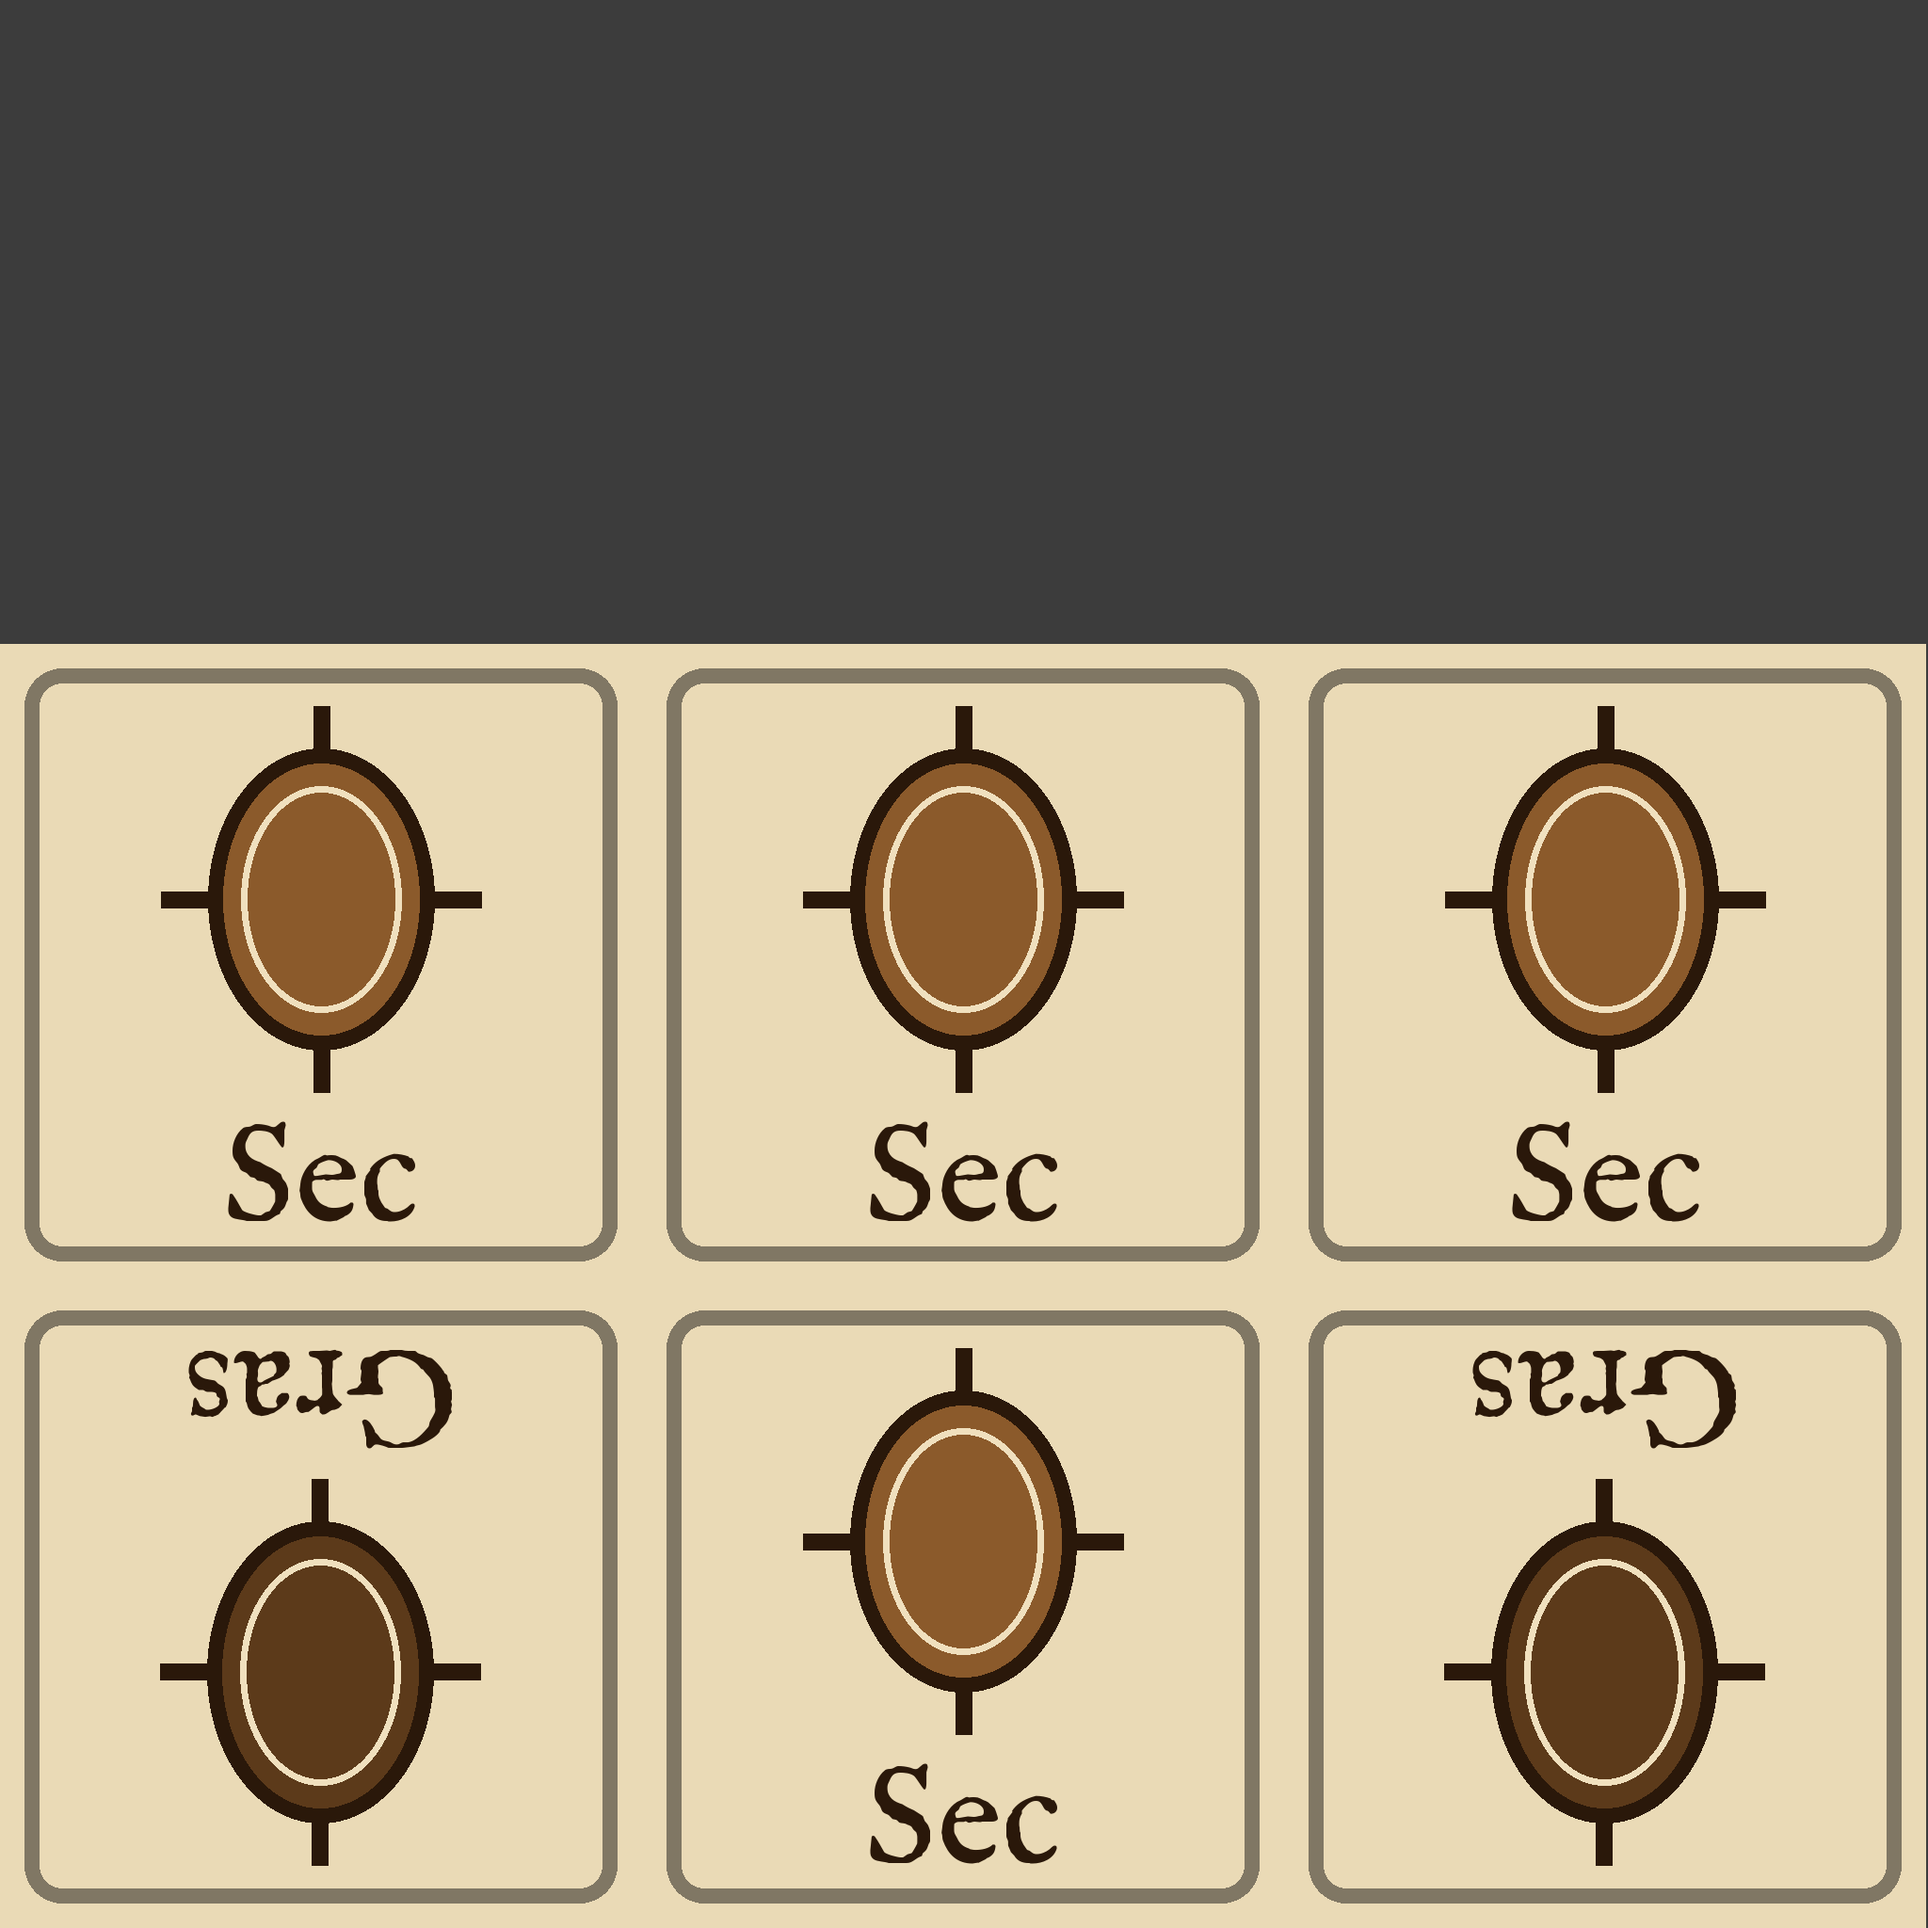
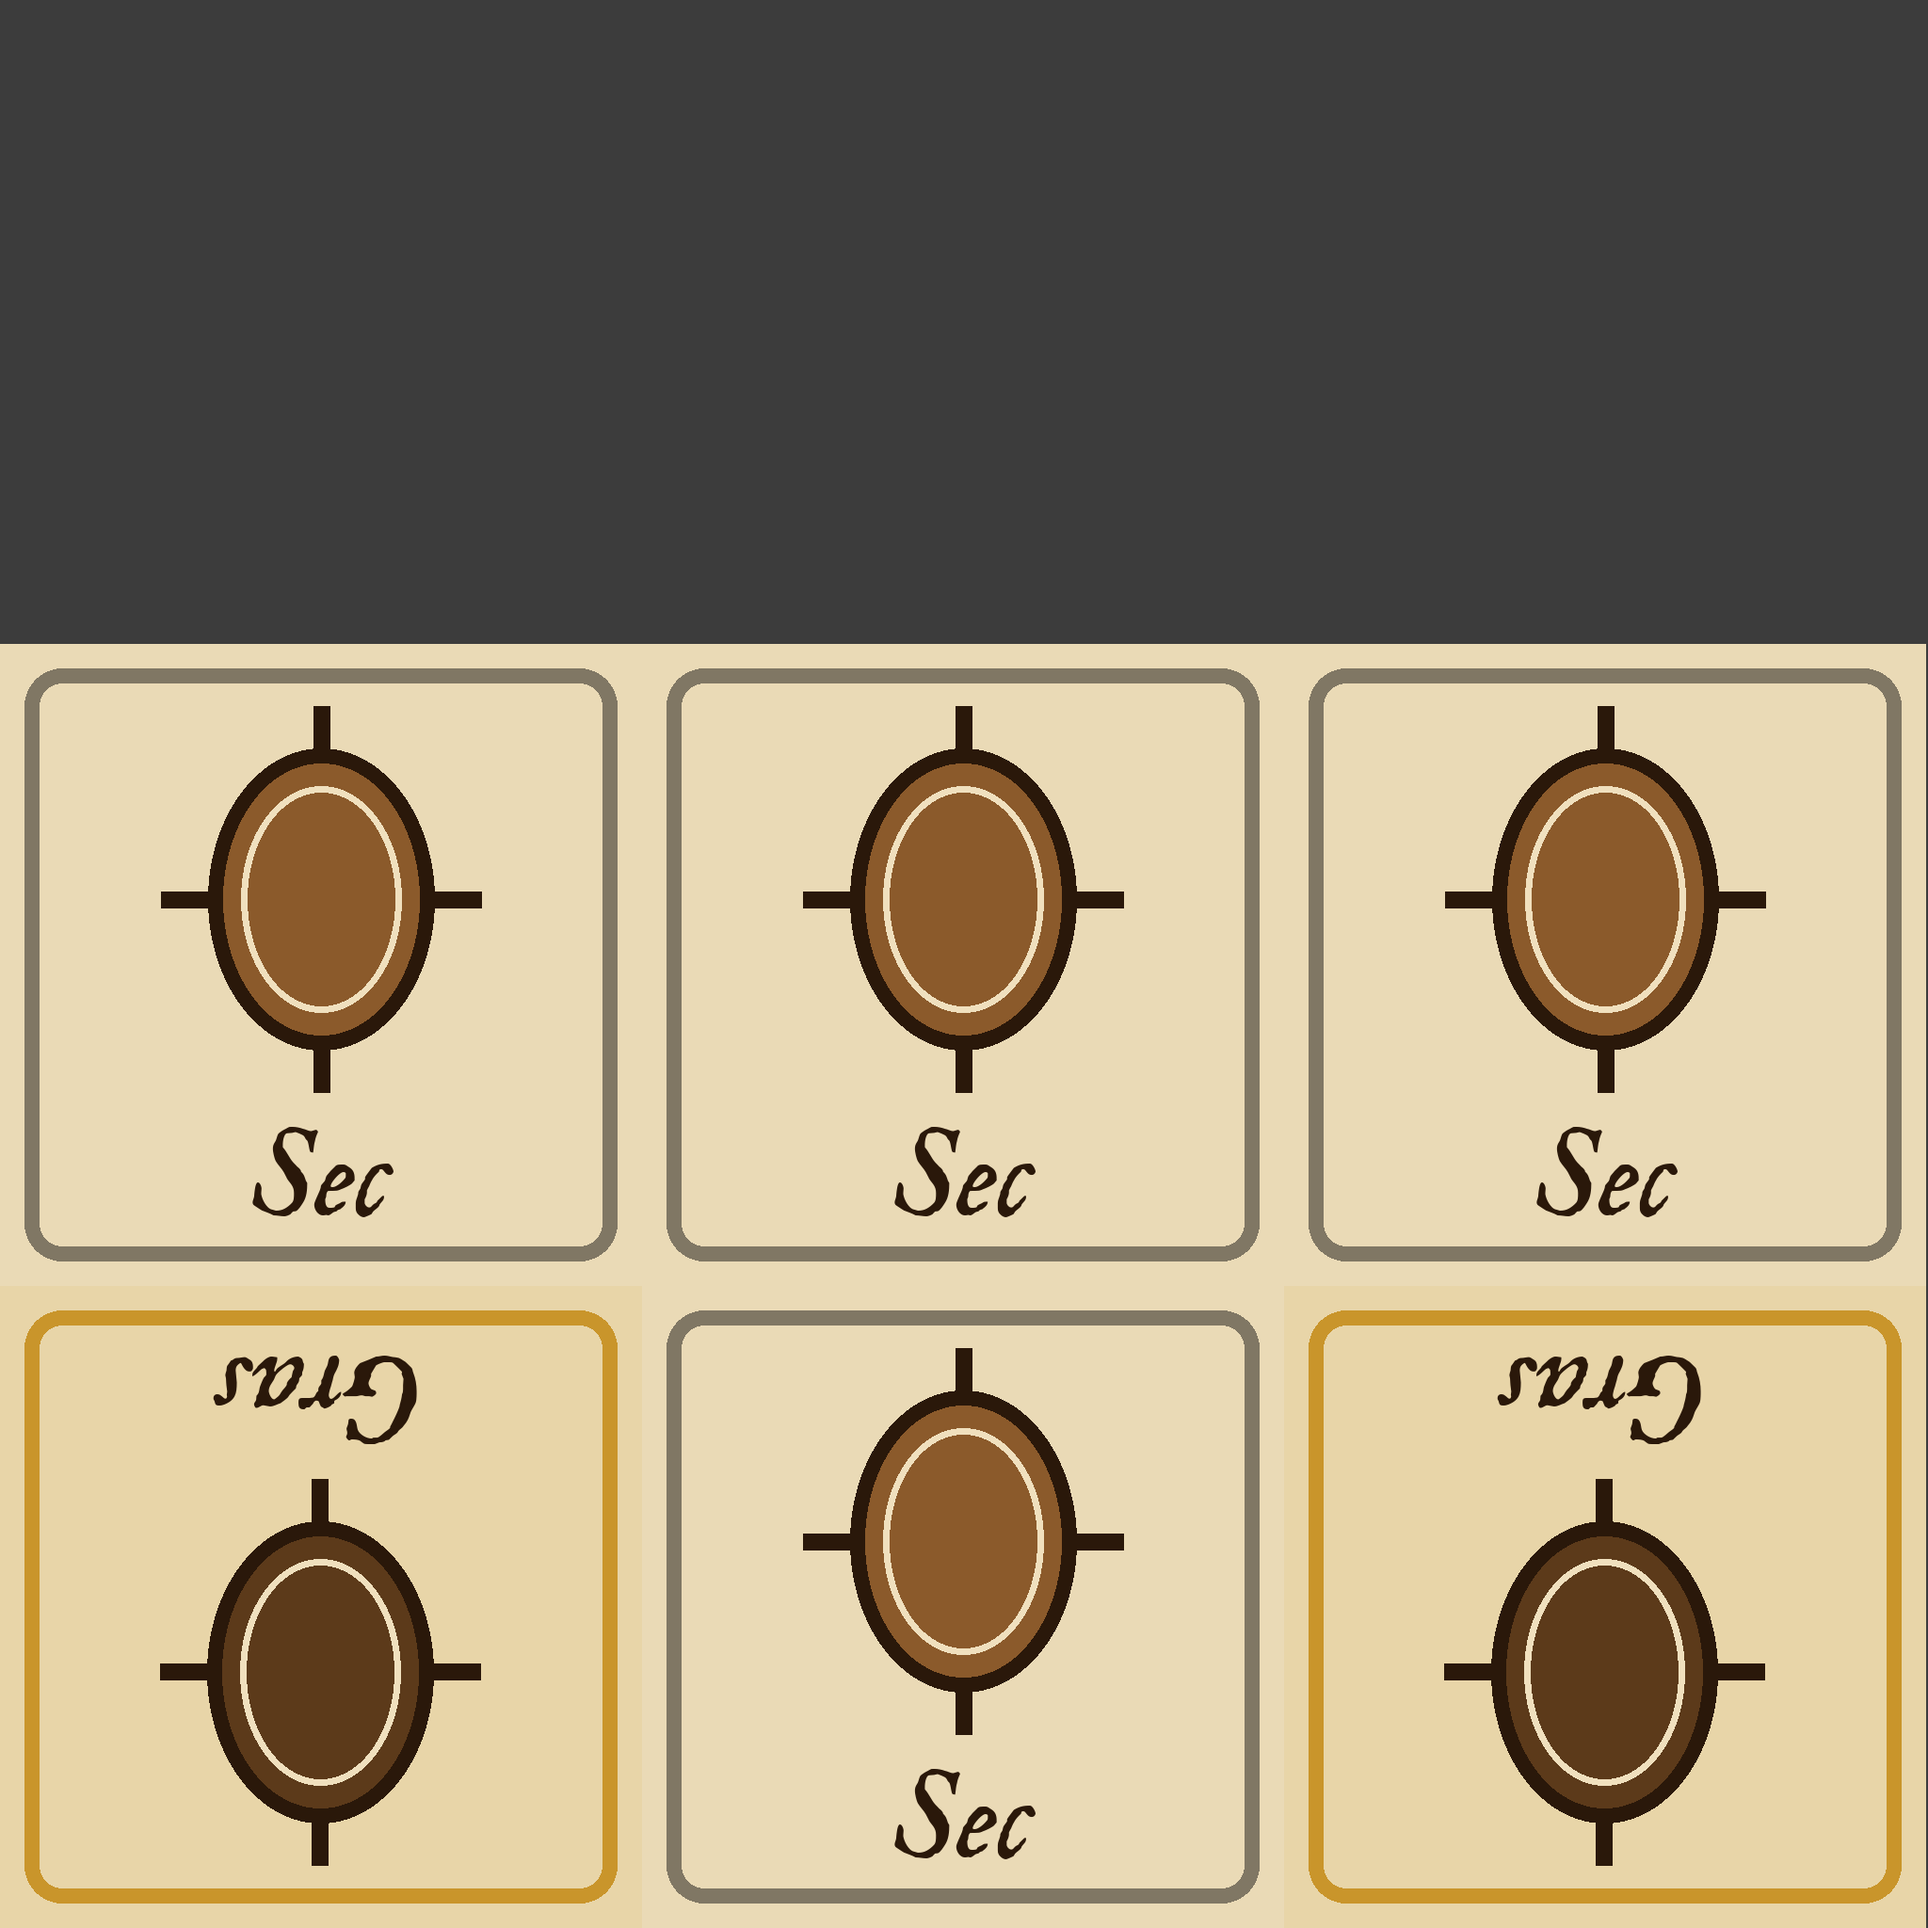
v3.19 : dé sec / gras, textes en italique non gras, faces Gras sur le fond des tuiles de gras
Claude-Session: https://claude.ai/code/session_01G5suCDEz1h6n5LuZQsei1c

diff --git a/src/de_custom.py b/src/de_custom.py
@@ -1,14 +1,14 @@
 # Dés de couleur et de peau en Custom Dice TTS (gabarit D6 : 2048², 3 colonnes x 2 rangées dans le bas,
 # rangée 1 = faces 2, 4, 5 ; rangée 2 = faces 1, 3, 6, les faces 1 et 6 tournées de 180°).
-# Faces opposées : 1-6, 2-5, 3-4.
+# Faces opposées : 1-6, 2-5, 3-4. Sec / Gras en IM Fell English italique (non gras), comme sur les tuiles.
 import sys
 from PIL import Image, ImageDraw, ImageFont
 R, FONT = sys.argv[1], sys.argv[2]
-C = 2048//3; F = ImageFont.truetype(FONT, 150)
-ZC = {'bleu': (47, 67, 115), 'vert': (88, 128, 60), 'rouge': (150, 58, 38)}; PARCH = (234, 218, 182); INK = (42, 24, 10)
-def face(col, gras=None):
+C = 2048//3; F = ImageFont.truetype(FONT, 130)
+ZC = {'bleu': (47, 67, 115), 'vert': (88, 128, 60), 'rouge': (150, 58, 38)}; PARCH = (234, 218, 182); FOND_GRAS = (232, 213, 168); OR = (201, 149, 43); INK = (42, 24, 10)
+def face(col, gras=None, bord=None):
     t = Image.new('RGB', (C, C), col); d = ImageDraw.Draw(t)
-    d.rounded_rectangle((26, 26, C-27, C-27), radius=40, outline=tuple(int(v*.55) for v in col), width=16)
+    d.rounded_rectangle((26, 26, C-27, C-27), radius=40, outline=bord or tuple(int(v*.55) for v in col), width=16)
     if gras is None: return t
     cx, cy = C/2, C/2-70; rx, ry = 120, 160
     d.line((cx, cy-ry-45, cx, cy+ry+45), fill=INK, width=18); d.line((cx-rx-50, cy, cx+rx+50, cy), fill=INK, width=18)
@@ -23,5 +23,6 @@ def atlas(faces, nom):          # faces : dict valeur -> image
         c, r = POS[v]; A.paste(im.rotate(180) if v in (1, 6) else im, (c*C, 2048-2*C+r*C))
     A.save(R+f'img/v18/{nom}.png')
 atlas({1: face(ZC['bleu']), 6: face(ZC['bleu']), 2: face(ZC['vert']), 5: face(ZC['vert']), 3: face(ZC['rouge']), 4: face(ZC['rouge'])}, 'cdice_zones')
-atlas({1: face(PARCH, 1), 6: face(PARCH, 1), 2: face(PARCH, 0), 5: face(PARCH, 0), 3: face(PARCH, 0), 4: face(PARCH, 0)}, 'cdice_castor')
+G = face(FOND_GRAS, 1, OR)   # fond des tuiles de gras (tuiles_v39 : FOND_GRAS, cadre OR)
+atlas({1: G, 6: G, 2: face(PARCH, 0), 5: face(PARCH, 0), 3: face(PARCH, 0), 4: face(PARCH, 0)}, 'cdice_castor')
 print('ok')
